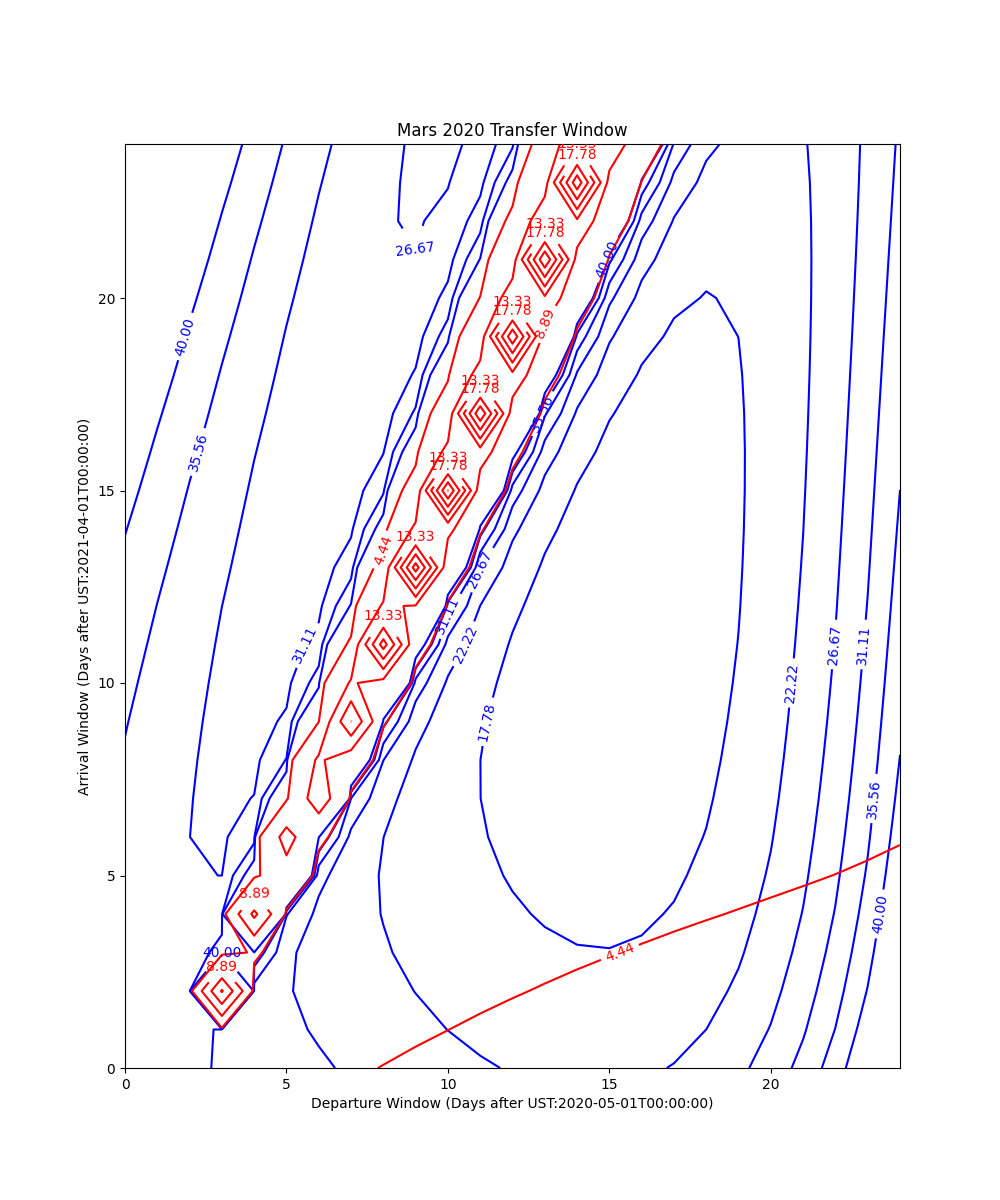
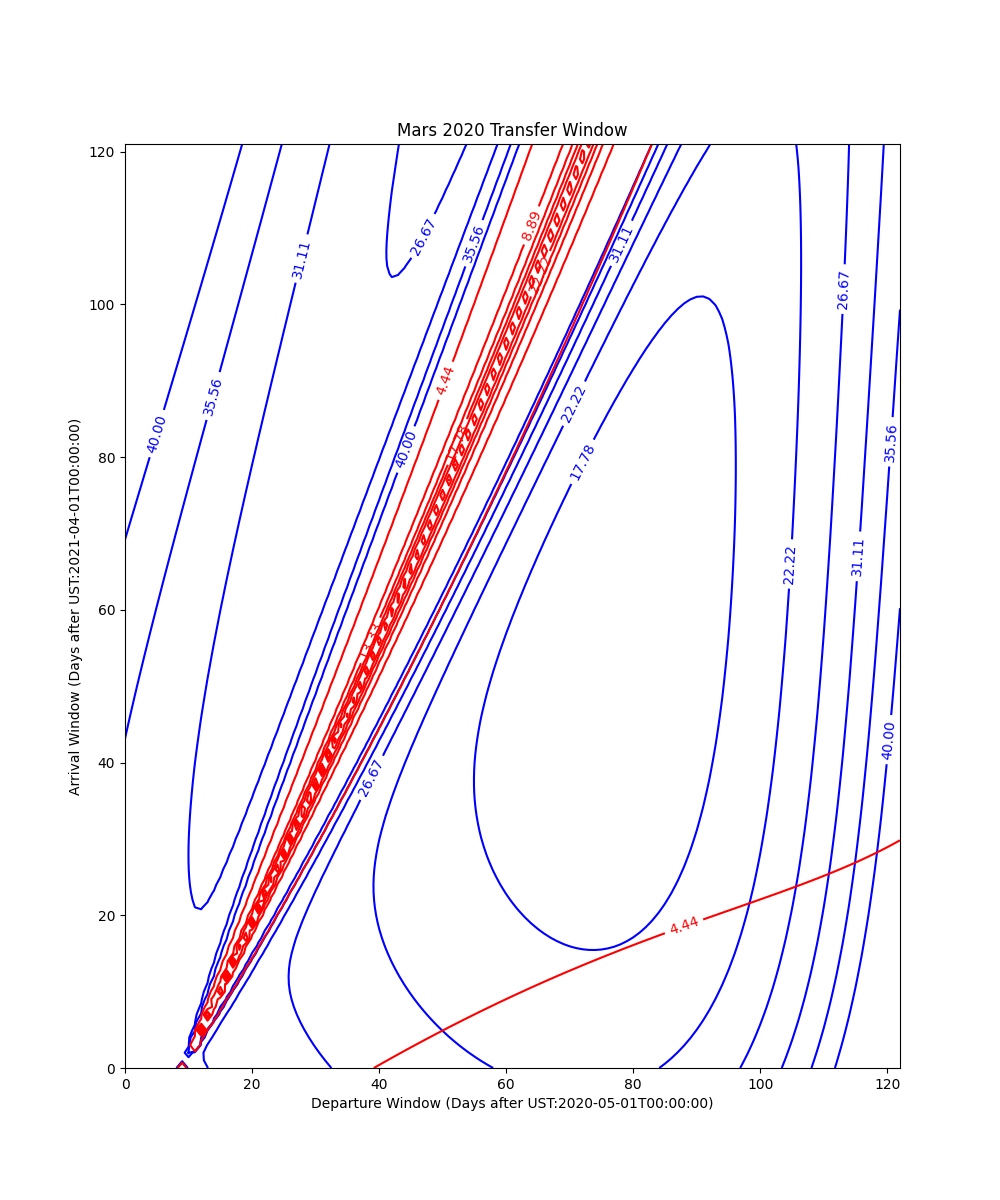
more changes

diff --git a/Gravitas_4.0/spice_video.py b/Gravitas_4.0/spice_video.py
@@ -6,6 +6,7 @@ by Tomas Bezkorowajnyj c. June 2025
 """""""""""""""""""""""""""""""""
 
 import pathlib
+import numpy as np
 import matplotlib.pyplot as plt
 import matplotlib.animation as atn
 import encounters as en
@@ -60,7 +61,7 @@ def visual_animation(dict_values, t_de, t_ar, velo):
     ## Save the animation as a GIF using the PillowWriter
     ani.save(f'{PROJ_DIR}/fig/animation.gif', writer='pillow')
 
-def visual_animation_3(dict_1, dict_2, t_de, t_ar, t_tr, velo):
+def visual_animation_3(d1, d2, t_de, t_ar, velo, t_tr):
     """generates GIF of orbital transfer given specified parameters
 
     Args:
@@ -70,18 +71,21 @@ def visual_animation_3(dict_1, dict_2, t_de, t_ar, t_tr, velo):
         velocity (string 3_): initial velocity of probe relative to sun on departure
     """
     ## Get seperate time and position arrays from ephemeris data
-    eph_tme,eph_trj_a = en.load_ephemeris_arrays(dict_values, t_de, t_ar,'target')
-    _, eph_trj_b = en.load_ephemeris_arrays(dict_values, t_de, t_ar,'origin')
-    prb_eph = timestepped_ephemeris(dict_values,eph_trj_a,eph_trj_b,velo)
+    eph_tme,eph_trj_a = en.load_ephemeris_arrays(d1, t_de, t_ar,'target')
+    _, eph_trj_b = en.load_ephemeris_arrays(d2, t_de, t_ar,'origin')
+    prb_eph_ev = timestepped_ephemeris(d1,eph_trj_a,eph_trj_b,velo)
+    prb_eph_vm = timestepped_ephemeris(d2,eph_trj_a,eph_trj_b,velo)
 
-    print(get_min_dist(dict_values,eph_trj_a,prb_eph,velo))
+    prb_eph = np.concatenate(prb_eph_ev, prb_eph_vm)
+
+    #print(get_min_dist(dict_values,eph_trj_a,prb_eph,velo))
 
     ## Create a figure and axes
     fig, _ = plt.subplots(figsize=(10, 6))
 
-    orb_trj_a = plot_trajectory(eph_trj_a[0][3:]*1e3,eph_trj_a[0][:3]*1e3) * 1e-3
-    orb_trj_b = plot_trajectory(eph_trj_b[0][3:]*1e3,eph_trj_b[0][:3]*1e3) * 1e-3
-    orb_prb = plot_trajectory(prb_eph[0][3:]*1e3,prb_eph[0][:3]*1e3) * 1e-3
+    #orb_trj_a = plot_trajectory(eph_trj_a[0][3:]*1e3,eph_trj_a[0][:3]*1e3) * 1e-3
+    #orb_trj_b = plot_trajectory(eph_trj_b[0][3:]*1e3,eph_trj_b[0][:3]*1e3) * 1e-3
+    #orb_prb = plot_trajectory(prb_eph[0][3:]*1e3,prb_eph[0][:3]*1e3) * 1e-3
 
     ## Function to update the plot for each frame of the animation
     def animate(i):
@@ -91,11 +95,11 @@ def visual_animation_3(dict_1, dict_2, t_de, t_ar, t_tr, velo):
         ax.set_ylim(-5e8, 5e8)
         ax.set_zlim(-5e7, 5e7)
         ax.scatter(eph_trj_a[i][0], eph_trj_a[i][1], eph_trj_a[i][2])
-        ax.plot(-orb_trj_a[0],-orb_trj_a[1],-orb_trj_a[2])
+        #ax.plot(-orb_trj_a[0],-orb_trj_a[1],-orb_trj_a[2])
         ax.scatter(eph_trj_b[i][0], eph_trj_b[i][1], eph_trj_b[i][2])
-        ax.plot(-orb_trj_b[0],-orb_trj_b[1],-orb_trj_b[2])
+        #ax.plot(-orb_trj_b[0],-orb_trj_b[1],-orb_trj_b[2])
         ax.scatter(prb_eph[i][0],prb_eph[i][1],prb_eph[i][2])
-        ax.plot(-orb_prb[0],-orb_prb[1],orb_prb[2])
+        #ax.plot(orb_prb[0],-orb_prb[1],-orb_prb[2])
 
     plt.grid(None)
 

diff --git a/Gravitas_4.0/mariner_10.py b/Gravitas_4.0/mariner_10.py
@@ -7,10 +7,12 @@ by Tomas Bezkorowajnyj c. July 2025
 
 import pathlib
 import numpy as np
+from datetime import datetime, timedelta
 from matplotlib import pyplot as plt
 from encounters import generate_porkchop, setup_kernel, destroy_kernel
 from vinf_matching import vinfinity_match_3
 from dictionaries import MARINER_10_EV, MARINER_10_VM
+from spice_video import visual_animation_3
 
 ##  Retrieve local file directory
 PROJ_DIR = pathlib.Path(__file__).parent.resolve()
@@ -35,13 +37,17 @@ r_pfb = (MU / np.linalg.norm(v_inf_ou[29][35])**2) * (-1 + 1 / np.sin(theta)) * 
 
 print(r_pfb)
 
-#cont = plt.contour(vinf,levels=np.linspace(0,5,10))
-#plt.clabel(cont, inline=1, fontsize=10)
-plt.imshow(vinf)
-plt.colorbar()
+#plt.imshow(vinf)
+#plt.colorbar()
+
+departure_time = datetime.strptime(MARINER_10_EV['d_time0'], "%Y-%m-%dT%H:%M:%S") + timedelta(seconds=float(35)*MARINER_10_EV['step'])
+arrival_time = datetime.strptime(MARINER_10_EV['a_time0'], "%Y-%m-%dT%H:%M:%S") + timedelta(seconds=float(35)*MARINER_10_EV['step'])
+
+
+visual_animation_3(MARINER_10_EV,MARINER_10_VM, departure_time, arrival_time, ev_v0[35][33], 35)
 
 plt.show()
 plt.close()
-plt.show()
+#plt.show()
 
 destroy_kernel()

diff --git a/Gravitas_4.0/mars_2020.py b/Gravitas_4.0/mars_2020.py
@@ -28,14 +28,14 @@ c3 = np.linalg.norm(v0 - vp, axis=2)**2
 vi = np.linalg.norm(v1 - va, axis=2)
 
 ##  Generate figure
-#gen_porkchop_plot(m_2020, c3, vi)
+gen_porkchop_plot(m_2020, c3, vi)
 IND_DEP = 80
 IND_ARR = 60
 
-ix, iy = 15, 5
+iy, ix = get_min(vi)
 viq = v0[iy][ix]
 
-#print(np.min(vi))
+print(np.min(vi))
 print(ix,iy)
 
 departure_time = datetime.strptime(m_2020['d_time0'], "%Y-%m-%dT%H:%M:%S") + timedelta(seconds=float(ix)*m_2020['step'])

diff --git a/Gravitas_4.0/dictionaries.py b/Gravitas_4.0/dictionaries.py
@@ -17,7 +17,7 @@ m_2020 = {
     "frame":        "ECLIPJ2000",
     "abcorr":       "NONE",
 
-    "step":         3600*24*5,
+    "step":         3600*24,
     "out_title":    "Mars 2020 Transfer Window",
 }
 
